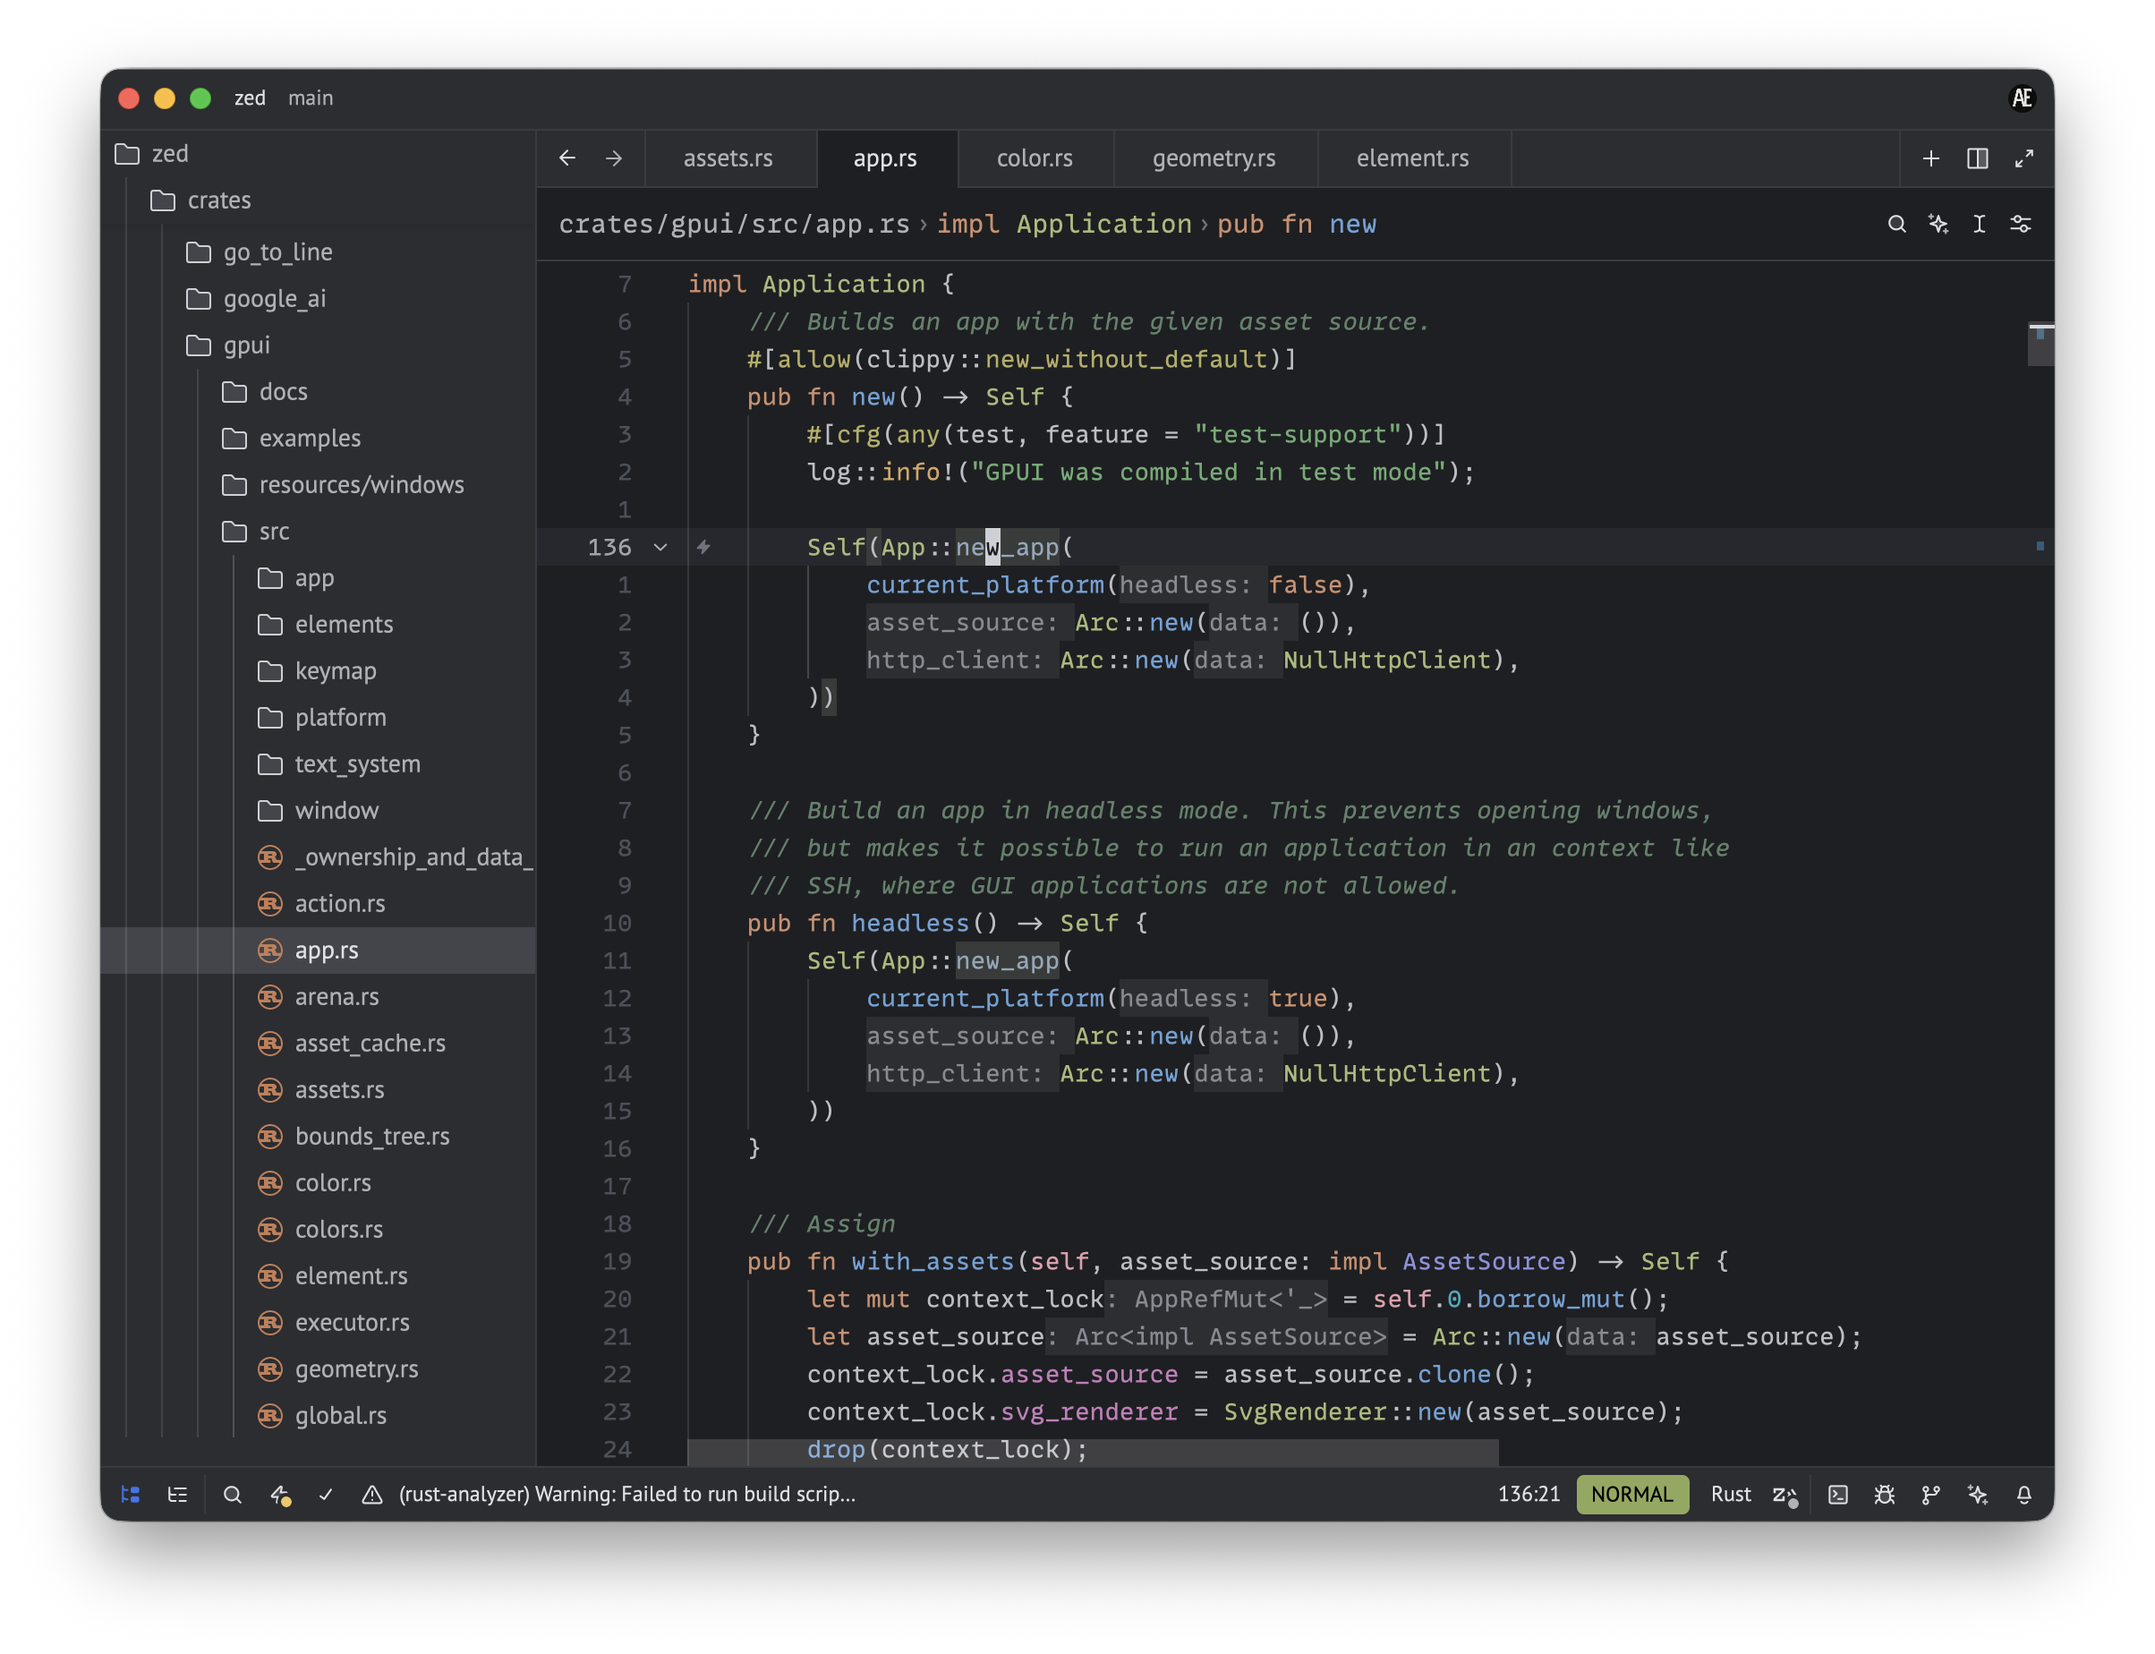
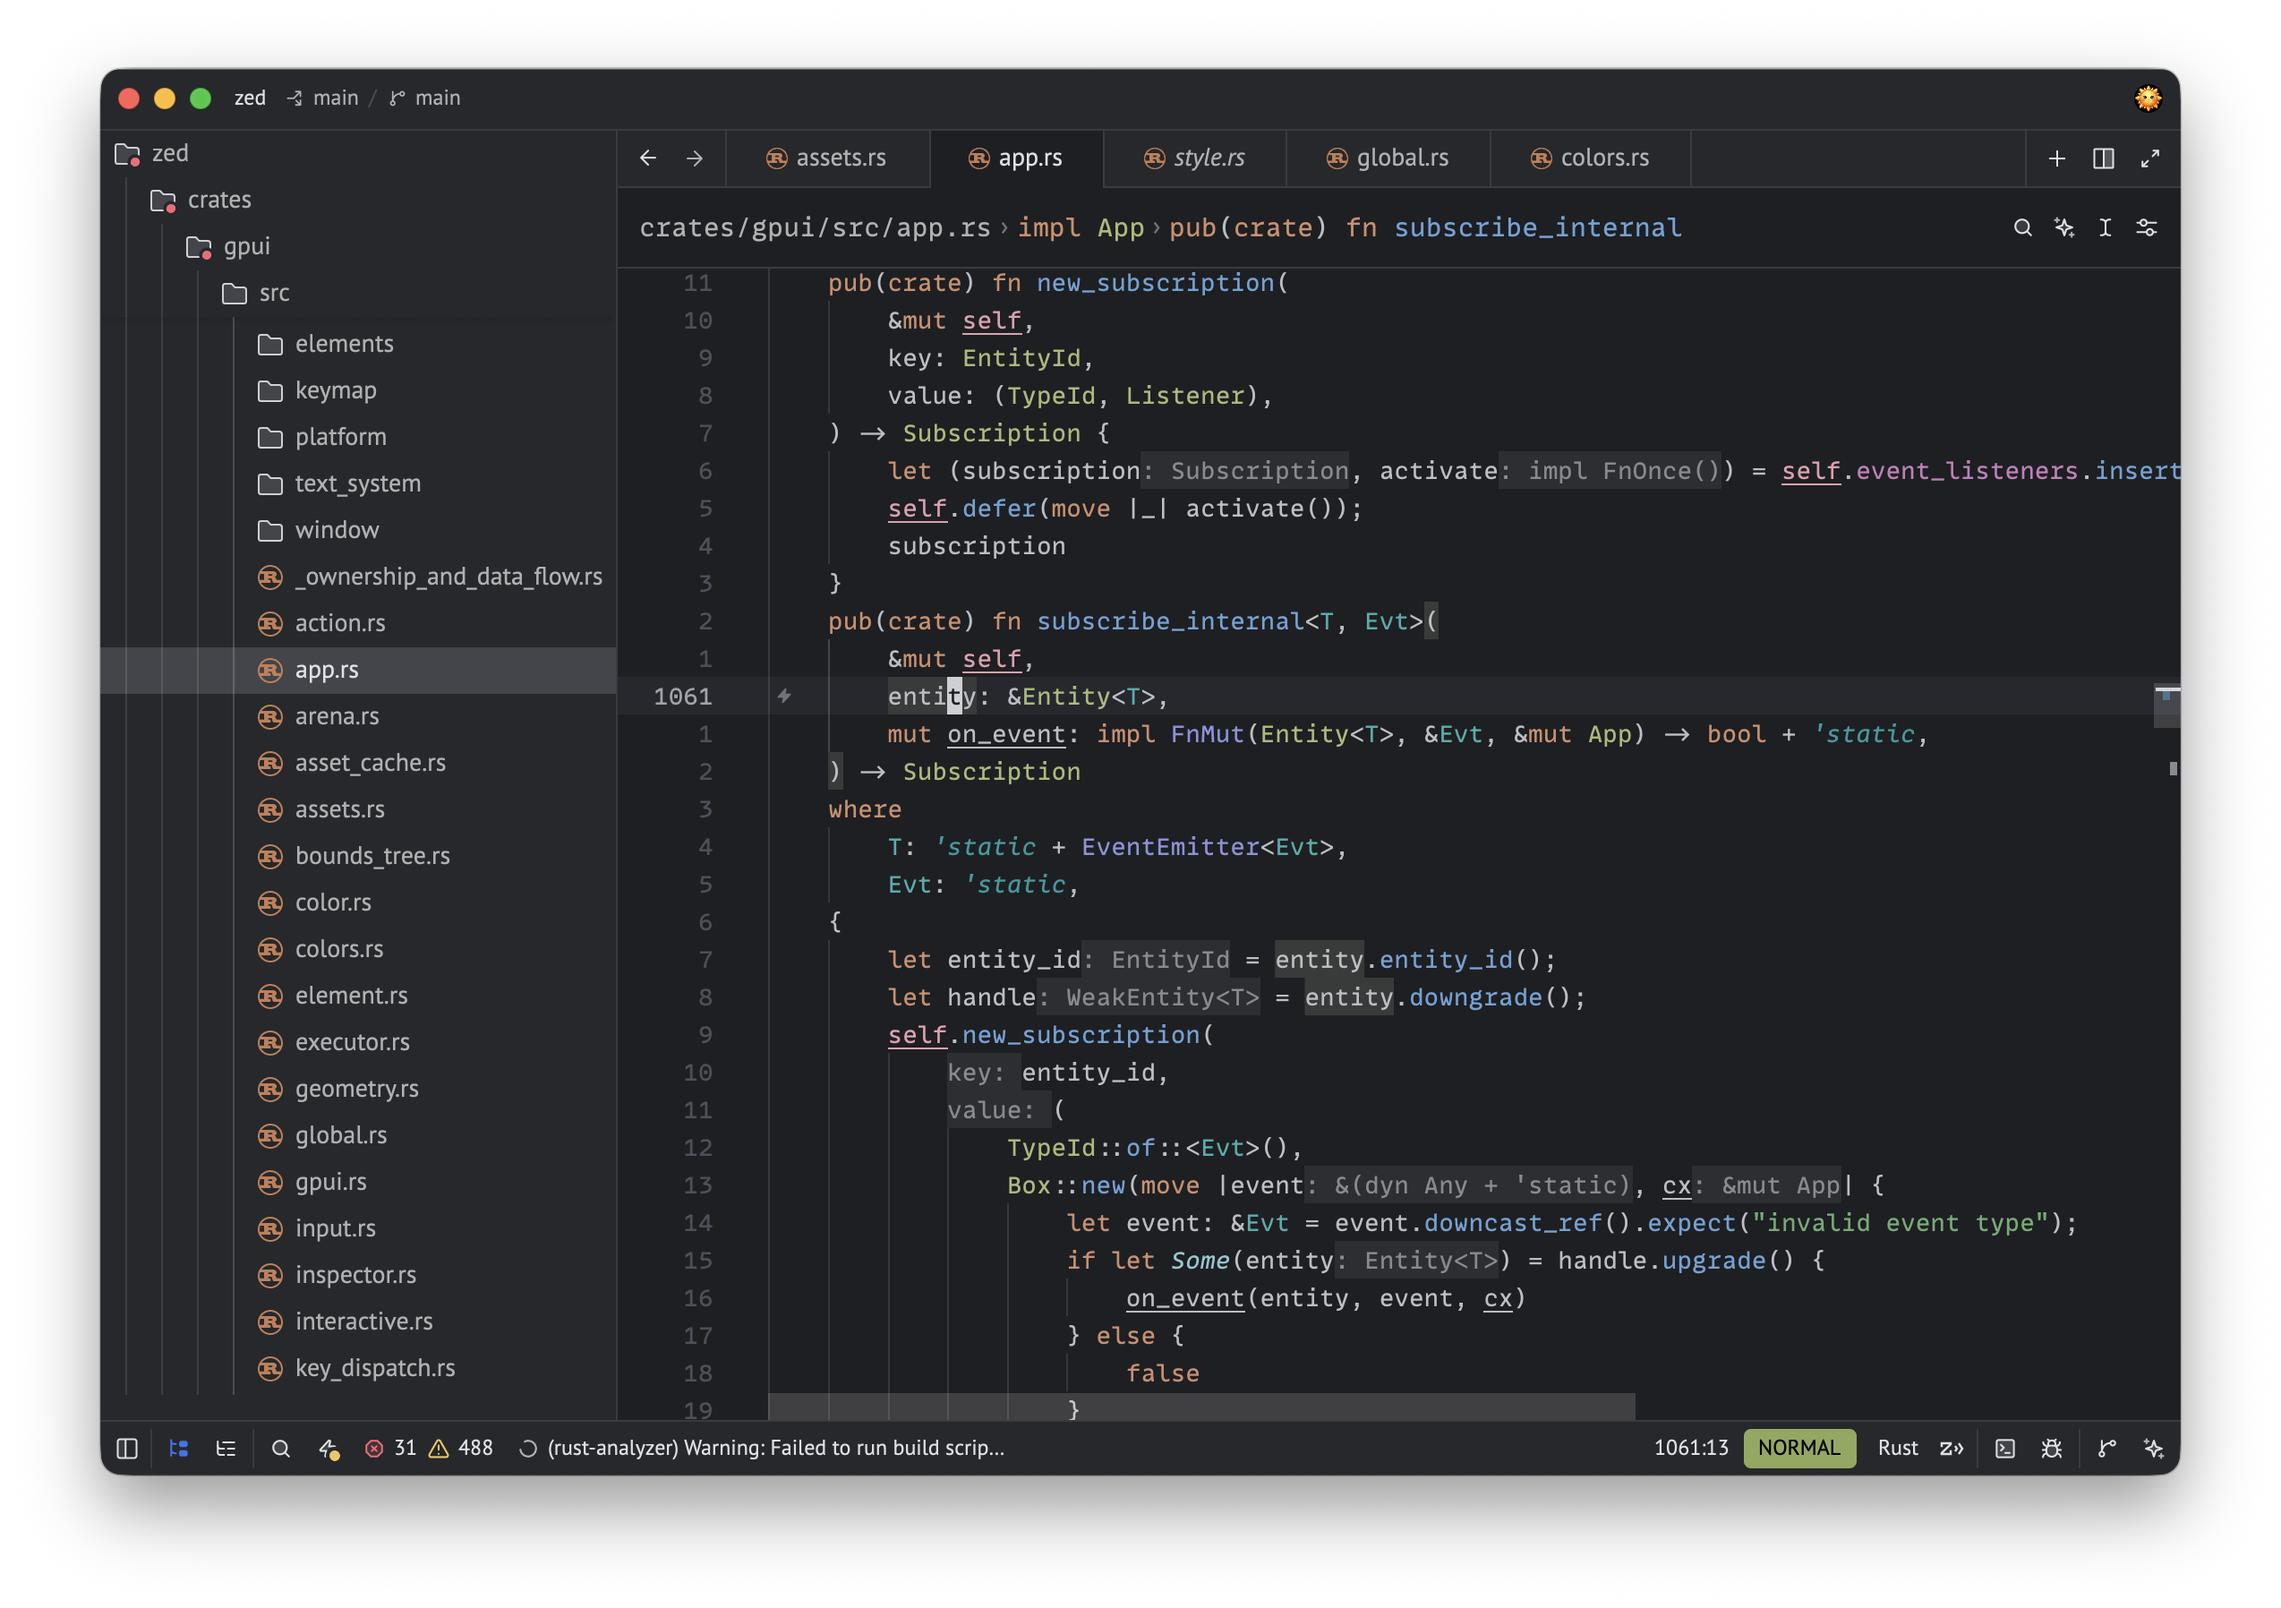
Add JetBrains Islands theme variants

diff --git a/README.md b/README.md
@@ -8,13 +8,21 @@ A color theme extension for the [Zed editor](https://zed.dev/) based on JetBrain
 
 ![jetbrains-dark](./screenshots/dark.png)
 
+### JetBrains Islands Dark
+
+![jetbrains-dark](./screenshots/islands-dark.png)
+
 ### JetBrains Light
 
 ![jetbrains-light](./screenshots/light.png)
 
+### JetBrains Islands Light
+
+![jetbrains-light](./screenshots/islands-light.png)
+
 ## Features
 
-- Includes both **light** and **dark** theme variants
+- Includes **4 theme variants**: JetBrains Dark, JetBrains Light, JetBrains Islands Dark, JetBrains Islands Light
 - Carefully crafted color palette based on JetBrains IDE themes
 - Optimized for code readability and extended coding sessions
 - Syntax highlighting that follows JetBrains color conventions
@@ -34,7 +42,11 @@ Alternatively, you can install it from within the Zed editor:
 
 After installation, you can activate the theme:
 1. Press `Cmd+K` then `Cmd+T` (macOS) or `Ctrl+K` then `Ctrl+T` (Linux/Windows)
-2. Select **JetBrains Dark** or **JetBrains Light** from the theme selector
+2. Select one of the available variants from the theme selector:
+   - **JetBrains Dark** — classic dark theme
+   - **JetBrains Light** — classic light theme
+   - **JetBrains Islands Dark** — dark theme with a softer, tinted palette
+   - **JetBrains Islands Light** — light theme with a softer, tinted palette
 
 ### Automatic Theme Switching
 
@@ -44,7 +56,7 @@ You can configure Zed to automatically switch between light and dark themes base
 "theme": {
   "mode": "system",
   "light": "JetBrains Light",
-  "dark": "JetBrains Dark"
+  "dark": "JetBrains Islands Dark"
 }
 ```
 
